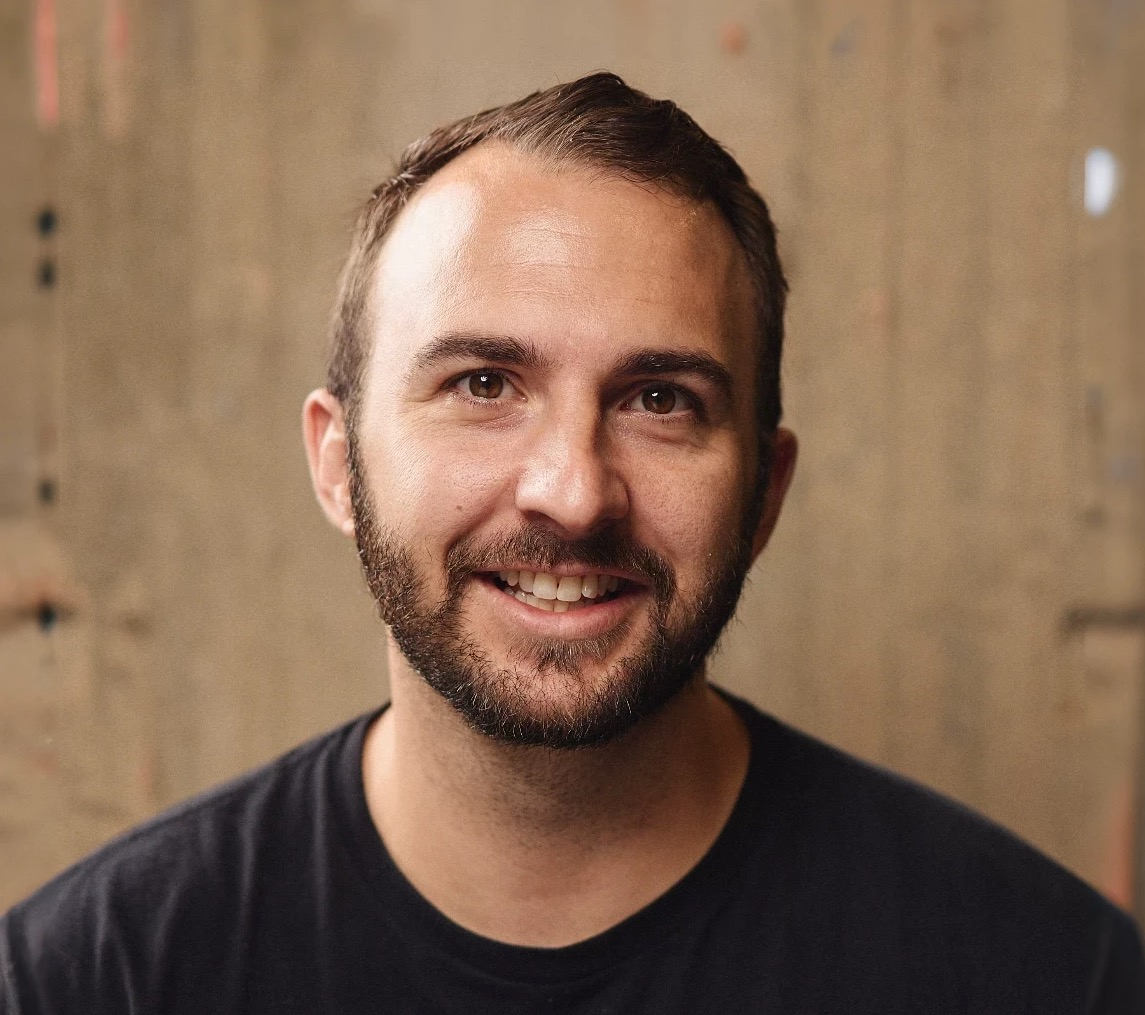
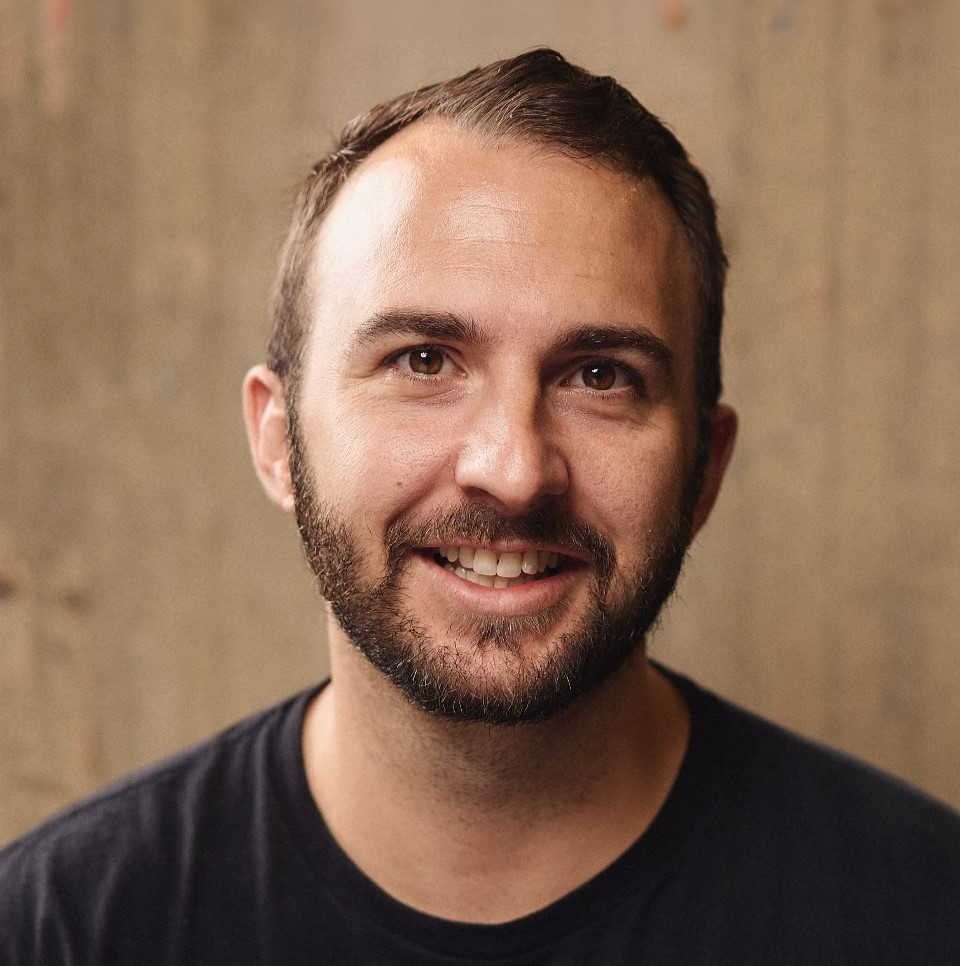
big updates

diff --git a/_includes/sidebar-nav-links.html b/_includes/sidebar-nav-links.html
@@ -15,9 +15,9 @@
 
   {% include page-links.html %}
   <a class="category-link " href="/category/hacking.html">hacking</a>
+  <a class="category-link " href="/category/ai.html">ai</a>
   <a class="category-link " href="/category/cyber.html">cybersecurity</a>
   <a class="category-link " href="/category/personal.html">personal</a>
-  <a class="category-link " href="/tags.html#ai">ai</a>
 
   {% include custom-nav-links.html %}
 </nav>

diff --git a/_sass/hydeout/_layout.scss b/_sass/hydeout/_layout.scss
@@ -110,7 +110,7 @@ body {
 
   // Bigger title
   .site-title {
-    font-size: 3.25rem;
+    font-size: 2.5rem;
   }
 
   // Show secondary nav content + lead
@@ -162,7 +162,7 @@ body {
 
   #sidebar {
     .site-title {
-      font-size: 3.25rem;
+      font-size: 2.5rem;
       .back-arrow { display: none; }
     }
 

diff --git a/_includes/sidebar.html b/_includes/sidebar.html
@@ -1,5 +1,6 @@
 <div id="sidebar">
   <header>
+    <img src="/assets/images/joseph_circle.png" alt="" width="200">
     <{% if page.layout == "index" %}h1{% else %}div{% endif %} class="site-title">
       <a href="{{ site.baseurl }}/">
         {% unless page.url == "/" %}

diff --git a/_posts/2023-05-19-prompt-injection-poc.md b/_posts/2023-05-19-prompt-injection-poc.md
@@ -2,11 +2,12 @@
 title: "From Theory to Reality: Explaining the Best Prompt Injection Proof of Concept"
 layout: post
 categories:
-  - hacking
+  - ai
 tags:
   - cybersecurity
   - hacking
   - ai
+redirect_from: /hacking/2023/05/19/prompt-injection-poc.html
 ---
 
 ![](https://i.imgur.com/qGOyKc8.png){: width="400" }

diff --git a/_posts/2023-08-25-prompt-injection-primer.md b/_posts/2023-08-25-prompt-injection-primer.md
@@ -2,11 +2,12 @@
 title: "Announcing PIPE: The Prompt Injection Primer"
 layout: post
 categories:
-  - cybersecurity
+  - ai
 tags:
   - cybersecurity
   - hacking
   - ai
+redirect_from: /cybersecurity/2023/08/25/prompt-injection-primer.html
 ---
 
 ![](https://i.imgur.com/FnpQXha.png){: width="400" }

diff --git a/_posts/2023-04-17-turbocharge-chatgpt-with-metaprompter.md b/_posts/2023-04-17-turbocharge-chatgpt-with-metaprompter.md
@@ -2,10 +2,12 @@
 title: "Turbocharge ChatGPT With A Metaprompter"
 layout: post
 categories:
-  - personal
+  - ai
 tags:
   - personal
+  - ai
   - productivity
+redirect_from: /personal/2023/04/17/turbocharge-chatgpt-with-metaprompter.html
 ---
 
 ![](https://i.imgur.com/txOGLHt.png){: width="400" }

diff --git a/_posts/2023-04-19-prompt-injection-and-mitigations.md b/_posts/2023-04-19-prompt-injection-and-mitigations.md
@@ -2,11 +2,12 @@
 title: "Prompt Injection Attacks and Mitigations"
 layout: post
 categories:
-  - hacking
+  - ai
 tags:
   - hacking
   - cybersecurity
   - ai
+redirect_from: /hacking/2023/04/19/prompt-injection-and-mitigations.html
 ---
 
 ![](https://i.imgur.com/m9MdyJx.png){: width="400" }

diff --git a/_posts/2023-02-21-hacking-with-chatgpt.md b/_posts/2023-02-21-hacking-with-chatgpt.md
@@ -2,10 +2,12 @@
 title: "Hacking with ChatGPT: Ideal Tasks and Use-Cases"
 layout: post
 categories:
-  - hacking
+  - ai
 tags:
+  - ai
   - hacking
   - cybersecurity
+redirect_from: /hacking/2023/02/21/hacking-with-chatgpt.html
 ---
 
 ![](https://i.imgur.com/ciblWMD.png){: width="400" }

diff --git a/_posts/2022-09-29-how-to-create-ai-art.md b/_posts/2022-09-29-how-to-create-ai-art.md
@@ -2,10 +2,12 @@
 title: "How to get setup to create awesome AI art"
 layout: post
 categories:
-  - art
+  - ai
 tags:
   - art
   - personal
+  - ai
+redirect_from: /art/2022/09/29/how-to-create-ai-art.html
 ---
 
 ![](https://i.imgur.com/4yAgZMY.jpg){: width="300" }

diff --git a/_posts/2023-07-31-ai-creativity.md b/_posts/2023-07-31-ai-creativity.md
@@ -2,10 +2,11 @@
 title: "AI Creativity: Can LLMs Create New Things?"
 layout: post
 categories:
-  - personal
+  - ai
 tags:
   - ai
   - personal
+redirect_from: /personal/2023/07/31/ai-creativity.html
 ---
 
 ![](https://i.imgur.com/5JwxDjF.png){: width="400" }

diff --git a/_posts/2023-08-30-humanlike-llm-ouput.md b/_posts/2023-08-30-humanlike-llm-ouput.md
@@ -2,9 +2,10 @@
 title: "Yes. LLMs can create convincingly human output."
 layout: post
 categories:
- - personal
+ - ai
 tags:
  - ai
+redirect_from: /personal/2023/08/30/humanlike-llm-ouput.html
 ---
 
 ![](https://i.imgur.com/lkOv3iR.png){: width="400" }
